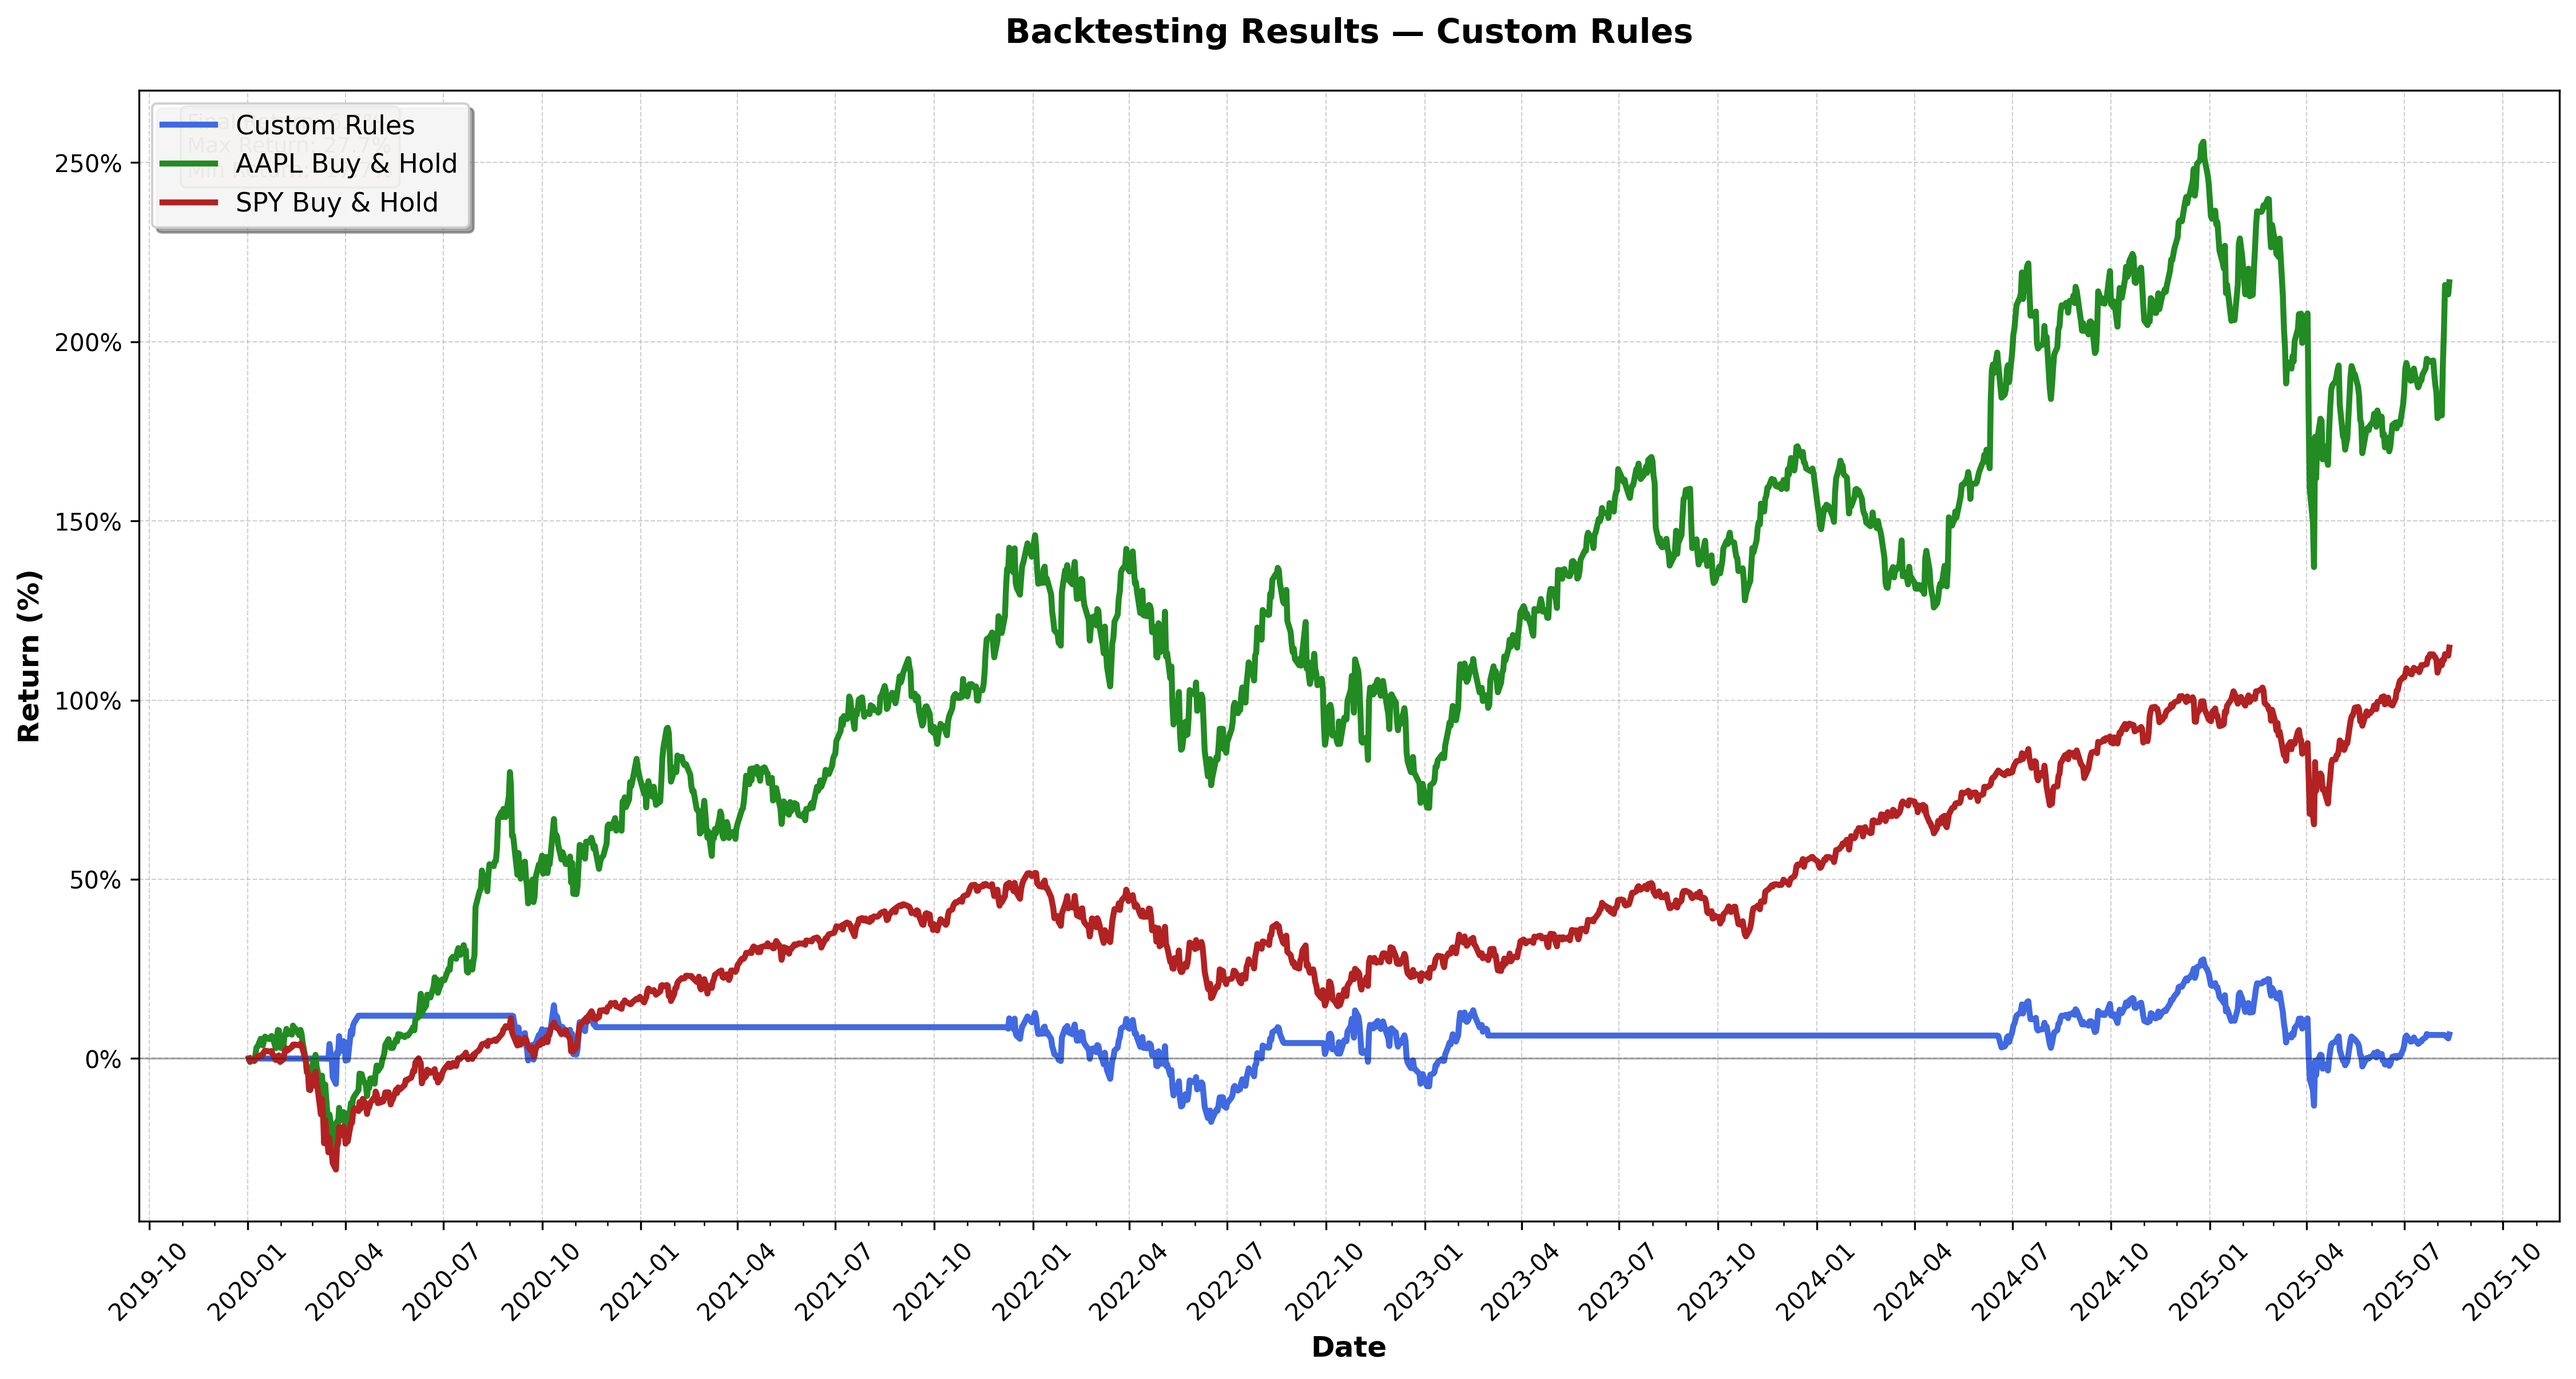
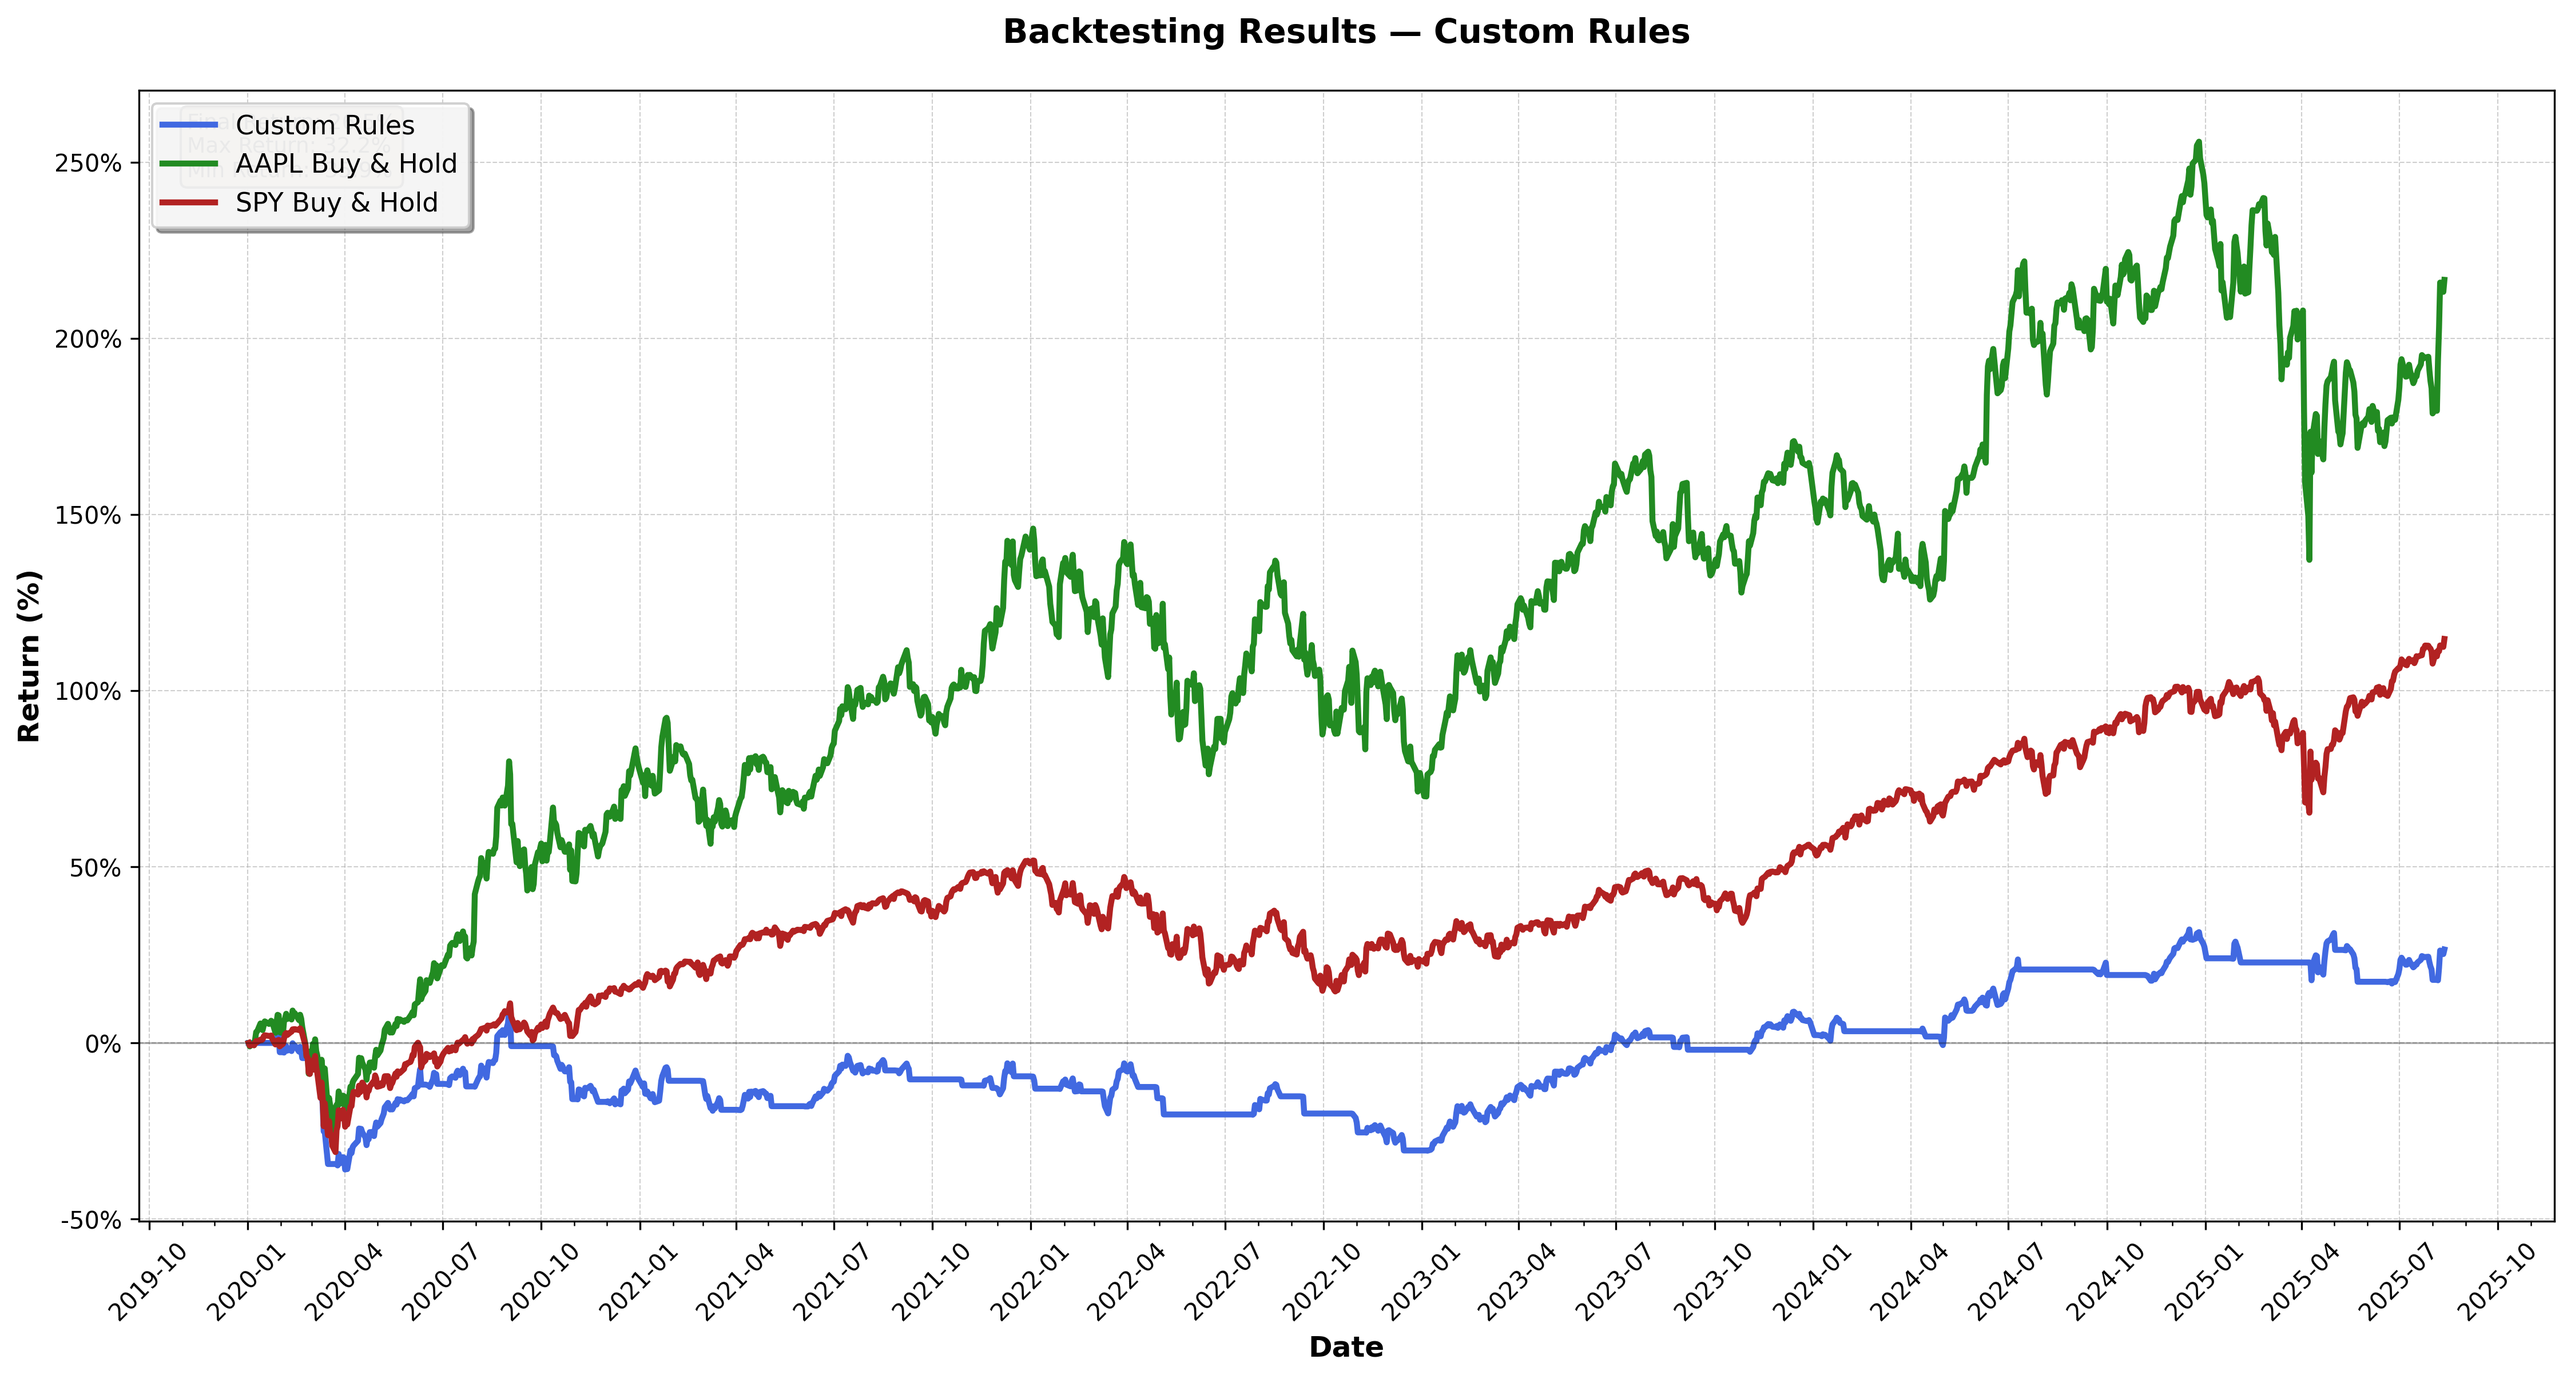
add atr to strategy

diff --git a/app/backtesting/advanced_rule_engine.py b/app/backtesting/advanced_rule_engine.py
@@ -80,9 +80,34 @@ class CustomRuleEngine:
             if 'bb_lower' in required_indicators:
                 indicators['bb_lower'] = bb_data['lower']
         
-        # ATR
+        # ATR base indicator (still needed for multiplier bands)
         if 'atr' in required_indicators:
             indicators['atr'] = self.ti.atr(data['high'], data['low'], data['close'])
+        
+        # ATR Multiplier Bands for breakout signals
+        # Extract multiplier values from indicator names like 'atr_upper_1.5' or 'atr_lower_2'
+        atr_upper_indicators = [ind for ind in required_indicators if ind.startswith('atr_upper_')]
+        atr_lower_indicators = [ind for ind in required_indicators if ind.startswith('atr_lower_')]
+        
+        if atr_upper_indicators or atr_lower_indicators:
+            atr = self.ti.atr(data['high'], data['low'], data['close'])
+            prev_close = data['close'].shift(1)
+            
+            # Upper ATR bands (for buy signals)
+            for indicator in atr_upper_indicators:
+                try:
+                    multiplier = float(indicator.split('_')[2])
+                    indicators[indicator] = prev_close + (atr * multiplier)
+                except (IndexError, ValueError):
+                    pass
+            
+            # Lower ATR bands (for sell signals)
+            for indicator in atr_lower_indicators:
+                try:
+                    multiplier = float(indicator.split('_')[2])
+                    indicators[indicator] = prev_close - (atr * multiplier)
+                except (IndexError, ValueError):
+                    pass
         
         # ADX
         if 'adx' in required_indicators:

diff --git a/app/test_backtest.py b/app/test_backtest.py
@@ -171,17 +171,25 @@ def create_performance_plot(plot_data, tickers, strategy_name):
 
 
 async def main():
+    # ATR Multiplier Strategy - Optimal configuration
+    # Buy when price breaks above previous close + ATR * multiplier
+    # Sell when price breaks below previous close - ATR * multiplier
     data = {
         "tickers": ["AAPL"],
         "start_date": "2020-01-01",
         "end_date": "2025-08-12",
         "buy_condition": [
-            {"name": "atr", "value": 5, "operator": "above"}  # ATR-based buy
+            {"name": "price", "value": "atr_upper_1", "operator": "above"}  # Buy when price > prev_close + ATR*2
         ],
         "sell_condition": [
-            {"name": "atr", "value": 3, "operator": "below"}  # ATR-based sell
+            {"name": "price", "value": "atr_lower_1", "operator": "below"}  # Sell when price < prev_close - ATR*2
         ]
     }
+    
+    # Other multiplier examples:
+    # - Use "atr_upper_1" and "atr_lower_1" for 1x multiplier (more signals)
+    # - Use "atr_upper_3" and "atr_lower_3" for 3x multiplier (fewer signals)
+    # - Use asymmetric like "atr_upper_1" and "atr_lower_2" for different buy/sell sensitivity
 
     await testing_strategy(
         data["tickers"],
